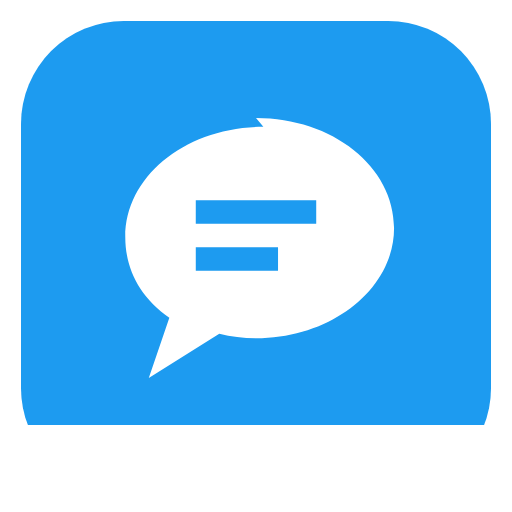
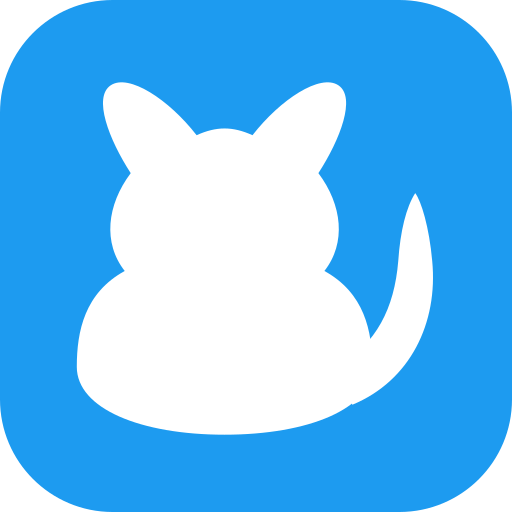
Tanda aplikasi berganti jadi siluet kucing gemuk
Gelembung komentar diganti siluet kucing duduk bergaya burung Twitter
lawas: bentuk putih rata di atas biru, tanpa detail di dalamnya, dengan
ekor menyapu ke atas dan meruncing seperti bulu ekor burungnya.

Ikon PWA digambar ulang di semua ukuran. Versi maskable dibuat lebih
kecil dan latarnya penuh sampai tepi supaya siluetnya tetap utuh saat
Android memotongnya jadi lingkaran; ikon biasa kini juga terisi biru
sampai sudut, tidak lagi menyisakan pita putih di bawah.

Tanda di dalam aplikasi dan di halaman luring ikut diganti agar sama
dengan ikon yang terpasang di layar utama. Siluetnya satu warna penuh,
jadi --tanda-dalam yang dulu melubangi gelembung tidak dipakai lagi.

VERSI service worker dinaikkan karena isi BEKAL ikut berubah.

diff --git a/components/Brand.tsx b/components/Brand.tsx
@@ -1,23 +1,25 @@
 type Props = { size?: number; className?: string };
 
-/** Tanda visual aplikasi: gelembung komentar dengan sudut yang dipangkas. */
+/** Tanda visual aplikasi: siluet kucing gemuk yang sedang duduk. */
 export default function Brand({ size = 30, className }: Props) {
   return (
     <svg
-      viewBox="0 0 32 32"
+      viewBox="0 0 512 512"
       width={size}
       height={size}
       className={className}
       role="img"
       aria-label="Twitter Mini"
     >
+      {/* Ekor menyapu ke atas dan meruncing, meniru bulu ekor burung lawas. */}
       <path
         fill="currentColor"
-        d="M16 3.2c7.1 0 12.8 4.6 12.8 10.6 0 6-5.7 10.6-12.8 10.6-1.2 0-2.3-.12-3.4-.36l-6.5 4.36 1.9-5.9C4.6 20.4 3.2 17.4 3.2 13.8 3.2 7.8 8.9 3.2 16 3.2Z"
+        d="M384 424C442 400 470 342 464 280c-3-34-11-60-17-68-9 14-15 38-17 68-4 48-22 82-60 106Z"
       />
+      {/* Kepala, telinga, dan badan gempal digambar sebagai satu siluet. */}
       <path
-        fill="var(--tanda-dalam)"
-        d="M10.4 11.6h11.2v2.1H10.4zm0 4.3h7.6V18h-7.6z"
+        fill="currentColor"
+        d="M142 104c18-12 58 14 86 50 20-9 36-9 56 0 28-36 68-62 86-50 18 12 2 54-20 88 24 32 28 70 6 98 40 22 48 60 48 96 0 42-64 68-148 68s-148-26-148-68c0-36 8-74 48-96-22-28-18-66 6-98-22-34-38-76-20-88Z"
       />
     </svg>
   );

diff --git a/public/luring.html b/public/luring.html
@@ -117,12 +117,15 @@
   </head>
   <body>
     <div class="kotak">
-      <svg viewBox="0 0 32 32" width="56" height="56" aria-hidden="true">
+      <svg viewBox="0 0 512 512" width="56" height="56" aria-hidden="true">
         <path
           fill="currentColor"
-          d="M16 3.2c7.1 0 12.8 4.6 12.8 10.6 0 6-5.7 10.6-12.8 10.6-1.2 0-2.3-.12-3.4-.36l-6.5 4.36 1.9-5.9C4.6 20.4 3.2 17.4 3.2 13.8 3.2 7.8 8.9 3.2 16 3.2Z"
+          d="M384 424C442 400 470 342 464 280c-3-34-11-60-17-68-9 14-15 38-17 68-4 48-22 82-60 106Z"
         />
-        <path fill="var(--latar)" d="M10.4 11.6h11.2v2.1H10.4zm0 4.3h7.6V18h-7.6z" />
+        <path
+          fill="currentColor"
+          d="M142 104c18-12 58 14 86 50 20-9 36-9 56 0 28-36 68-62 86-50 18 12 2 54-20 88 24 32 28 70 6 98 40 22 48 60 48 96 0 42-64 68-148 68s-148-26-148-68c0-36 8-74 48-96-22-28-18-66 6-98-22-34-38-76-20-88Z"
+        />
       </svg>
       <h1>Tidak ada koneksi</h1>
       <p>

diff --git a/app/globals.css b/app/globals.css
@@ -27,7 +27,6 @@
   --bahaya: #f4212e;
   --bahaya-lembut: rgba(244, 33, 46, 0.14);
   --emas: #f5c518;
-  --tanda-dalam: #000000;
   --lencana-tanda: #000000;
   --bayang: 0 10px 30px rgba(0, 0, 0, 0.6);
   color-scheme: dark;
@@ -53,7 +52,6 @@
   --bahaya: #e0245e;
   --bahaya-lembut: rgba(224, 36, 94, 0.1);
   --emas: #d4a017;
-  --tanda-dalam: #ffffff;
   --lencana-tanda: #ffffff;
   --bayang: 0 10px 30px rgba(15, 20, 25, 0.18);
   color-scheme: light;

diff --git a/public/sw.js b/public/sw.js
@@ -17,7 +17,7 @@
 
 /* Dinaikkan setiap kali isi BEKAL berubah, supaya perangkat yang sudah
    menyimpan versi lama mengambil yang baru. */
-const VERSI = "tm-v2";
+const VERSI = "tm-v3";
 const SIMPANAN_STATIS = `${VERSI}-statis`;
 const LURING = "/luring.html";
 
